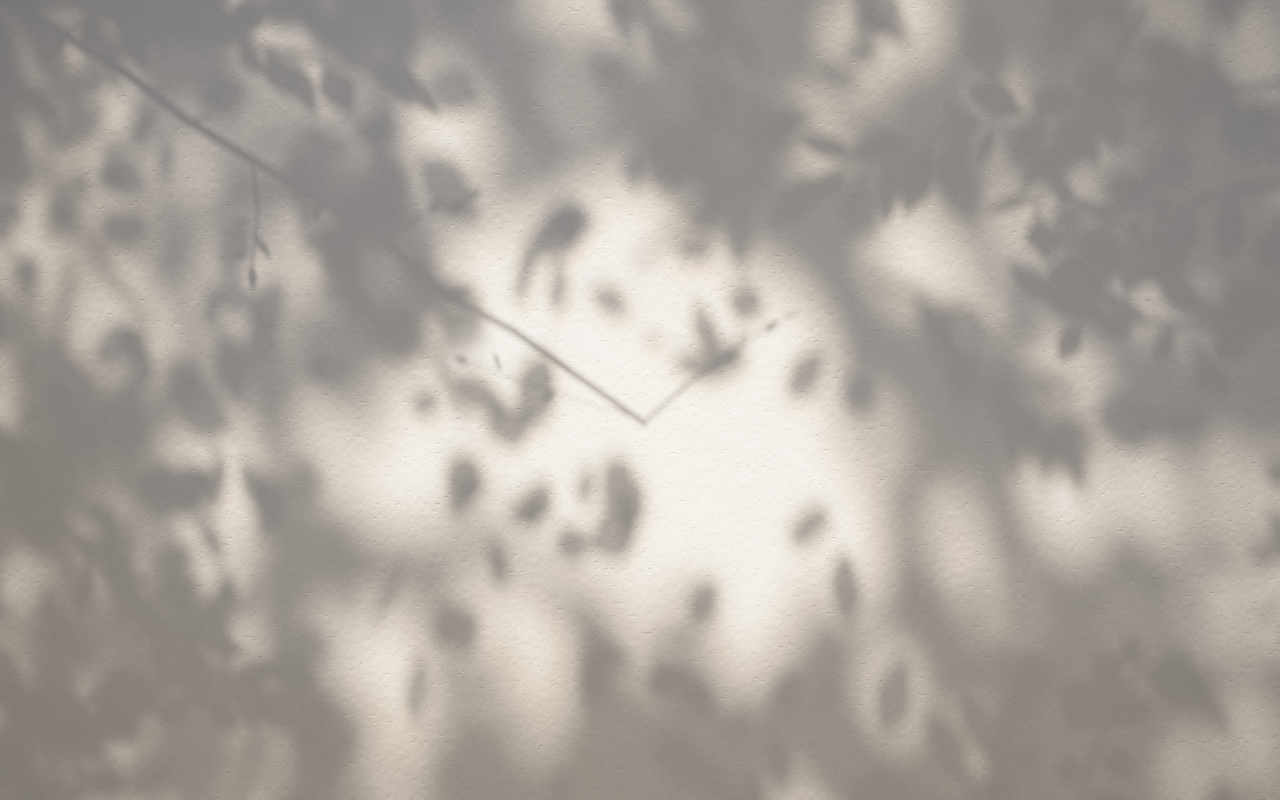
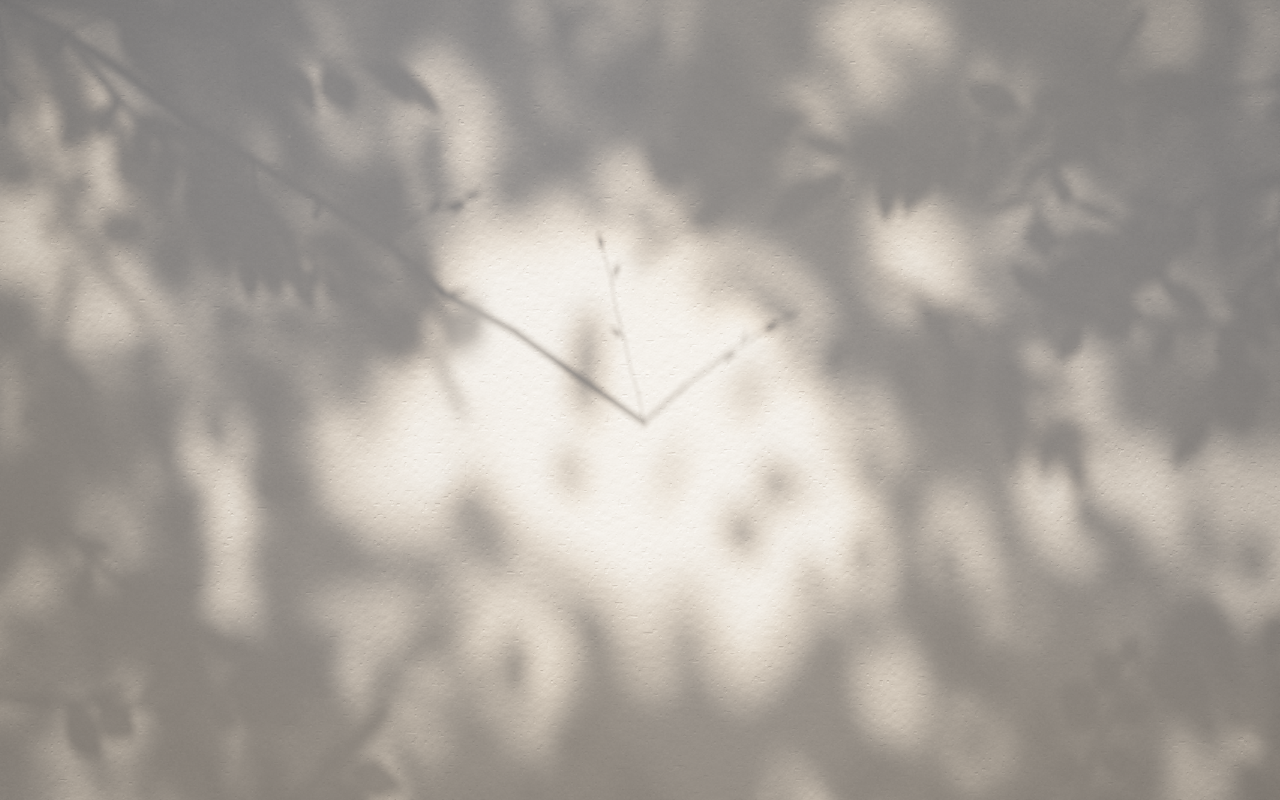
Komorebi Clock: softer middle leaves; more branches at the corners
The middle layer of leaves hangs farther from the wall (1.9 to 3.1 instead of
0.9 to 1.7), so its shadows lose their outlines in the sun's blur. Each
corner gets a nearer branch long enough to reach the light and a farther
one. Store screenshots refreshed.

diff --git a/komorebi/extension/newtab.js b/komorebi/extension/newtab.js
@@ -914,7 +914,7 @@ function buildCanopy() {
     }
     return [start, leaves.length - start];
   };
-  canMid = layer(0.9, 1.7, 0.30, 0.060, 0.100, 0.07, 10, 0.88);
+  canMid = layer(1.9, 3.1, 0.30, 0.060, 0.100, 0.07, 10, 0.88);
   /* far: an almost closed roof of leaves; light comes through its gaps. Each gap
      is a few overlapping lobes; most are small, a few are wide.             */
   const fStart = leaves.length;
@@ -939,7 +939,7 @@ function buildCanopy() {
 }
 
 /* Things close to the wall are posed every frame. */
-const NEAR_MAX = 440;
+const NEAR_MAX = 720;
 const nearData = new Float32Array(NEAR_MAX * 4 * FPV);
 let nearQ = 0, kNow = [0, 0];
 const proj = a => [a[0] - a[2] * kNow[0], a[1] - a[2] * kNow[1]];
@@ -1089,10 +1089,10 @@ function buildMoreBranches() {
   const r = mulberry(31337);
   MORE = [];
   const hw = halfW, yb = yBot, R = Math.min(0.31, halfW * 0.78);
-  const make = (x, y, ang, z, ch) => {
+  const make = (x, y, ang, z, ch, ls = 1) => {          /* ls: a longer branch, as leafy along its length */
     const nSeg = 5 + Math.floor(r() * 3), segs = [], leaves = [];
-    for (let i = 0; i < nSeg; i++) segs.push({ len: (0.05 + 0.05 * r()) * (1 - i / (nSeg + 3)), curve: (r() - 0.5) * 0.45 });
-    const nl = 8 + Math.floor(r() * 8);
+    for (let i = 0; i < nSeg; i++) segs.push({ len: (0.05 + 0.05 * r()) * (1 - i / (nSeg + 3)) * ls, curve: (r() - 0.5) * 0.45 });
+    const nl = Math.round((8 + Math.floor(r() * 8)) * ls);
     for (let k = 0; k < nl; k++) leaves.push({ s: 0.15 + 0.85 * (k + r() * 0.8) / nl, side: k % 2 ? 1 : -1, off: 0.45 + 0.5 * r(),
       len: (0.042 + 0.034 * r()) * (z > 1.0 ? 1.3 : 1.12), wf: 0.85 + 0.3 * r(), ph: r() * 90, tz: (r() - 0.5) * 0.6 });
     return { x, y, ang, z, ch, segs, leaves, flex: 0.6 + 0.6 * r(), ph: r() * 100 };
@@ -1120,6 +1120,16 @@ function buildMoreBranches() {
     }, R * 1.4);
   }
   for (let i = 0; i < 6; i++) place(() => make((r() * 2 - 1) * hw * 1.05, yb + r() * (0.55 - yb), r() * 6.2832, 1.25 + 0.75 * r(), 2), R * 1.1);
+  /* each corner: a nearer branch long enough to reach the light, and a farther one */
+  for (const [sx, sy] of [[-1, 1], [1, 1], [-1, -1], [1, -1]]) {
+    const cx = sx * (hw + 0.03), cy = sy > 0 ? 0.53 : yb - 0.03;
+    const inward = Math.atan2(PIVOT.y - cy, PIVOT.x - cx);
+    for (const ch of [1, 2]) place(() => {
+      const slide = (r() - 0.3) * 0.18, alongX = r() < 0.5;
+      return make(cx - (alongX ? sx * slide : 0), cy - (alongX ? 0 : sy * slide), inward + (r() - 0.5) * 0.9,
+                  ch === 1 ? 0.6 + 0.35 * r() : 1.3 + 0.6 * r(), ch, ch === 1 ? 1.7 : 1.2);
+    }, ch === 1 ? R * 1.5 : R * 1.2);
+  }
 }
 function emitMore(B, t, aK) {
   const fl = flutterAt(B.x);
@@ -1422,7 +1432,7 @@ function frame(now) {
   gl.uniform4f(P.u('uRect'), occRect[0], occRect[1], 1 / occRect[2], 1 / occRect[3]);
   gl.uniform4f(P.u('uSun'), sd[0], sd[1], 1 / sz, 0);
   const lpx = (0.5 - yBot) / lightFBO.h;
-  const rMid = penum(1.3), rFar = penum(4.4);
+  const rMid = penum(2.5), rFar = penum(4.4);
   const rFb = Math.hypot(penum(1.6), lens), rNb = Math.hypot(penum(0.75), lens);
   gl.uniform4f(P.u('uRad'), rNb, rFb, rMid, rFar);
   const tpu = canT.h / occRect[3];

diff --git a/komorebi/README.md b/komorebi/README.md
@@ -2,7 +2,7 @@
 
 A Chrome extension that replaces the new tab page with sunlight falling through leaves onto a plaster wall. It is a clock without numerals: the time is told by the shadow of a branch and its twigs.
 
-Everything on the wall is a shadow of something in front of it, cast by a sun that moves with the local hour. A far canopy (5 to 9 m from the wall) is an almost closed roof of leaves; the light through its gaps lands as soft, round pinhole images of the sun. A nearer layer of leaves (1.5 to 3 m) casts blurred leaf shapes, and a dozen branches hang between 0.9 and 3 m from the wall, so their shadows are soft. A branch reaches in from beyond the edge, close to the wall, and ends in the clearing. The branch itself is the hour hand: from its tip outward it points at the hour. Two twigs grow from the tip: a long slender one with narrow willow leaves is the minute hand, and the thinnest, with a few small leaves, sweeps the seconds. The branch's side twigs look much like them, so the time hides among them until you look for it. The farther something is from the wall, the softer its shadow, because the sun is a disc rather than a point; a slight lens defocus softens everything a little more, and the brightest edges of the dappled light split faintly into colour. Each minute the shadow of a small cloud passes over. The light follows the local hour: pink-orange at dawn, warm white in the morning, bright and neutral at noon, golden with long ellipses in the late afternoon, deep orange at dusk, and cool blue moonlight at night.
+Everything on the wall is a shadow of something in front of it, cast by a sun that moves with the local hour. A far canopy (5 to 9 m from the wall) is an almost closed roof of leaves; the light through its gaps lands as soft, round pinhole images of the sun. A nearer layer of leaves (2 to 3 m) casts soft patches without clear outlines, and about twenty branches, more of them toward the corners, hang between 0.6 and 2 m from the wall, so their shadows are soft. A branch reaches in from beyond the edge, close to the wall, and ends in the clearing. The branch itself is the hour hand: from its tip outward it points at the hour. Two twigs grow from the tip: a long slender one with narrow willow leaves is the minute hand, and the thinnest, with a few small leaves, sweeps the seconds. The branch's side twigs look much like them, so the time hides among them until you look for it. The farther something is from the wall, the softer its shadow, because the sun is a disc rather than a point; a slight lens defocus softens everything a little more, and the brightest edges of the dappled light split faintly into colour. Each minute the shadow of a small cloud passes over. The light follows the local hour: pink-orange at dawn, warm white in the morning, bright and neutral at noon, golden with long ellipses in the late afternoon, deep orange at dusk, and cool blue moonlight at night.
 
 ![screenshot](store/screenshot_1280x800_a.png)
 
